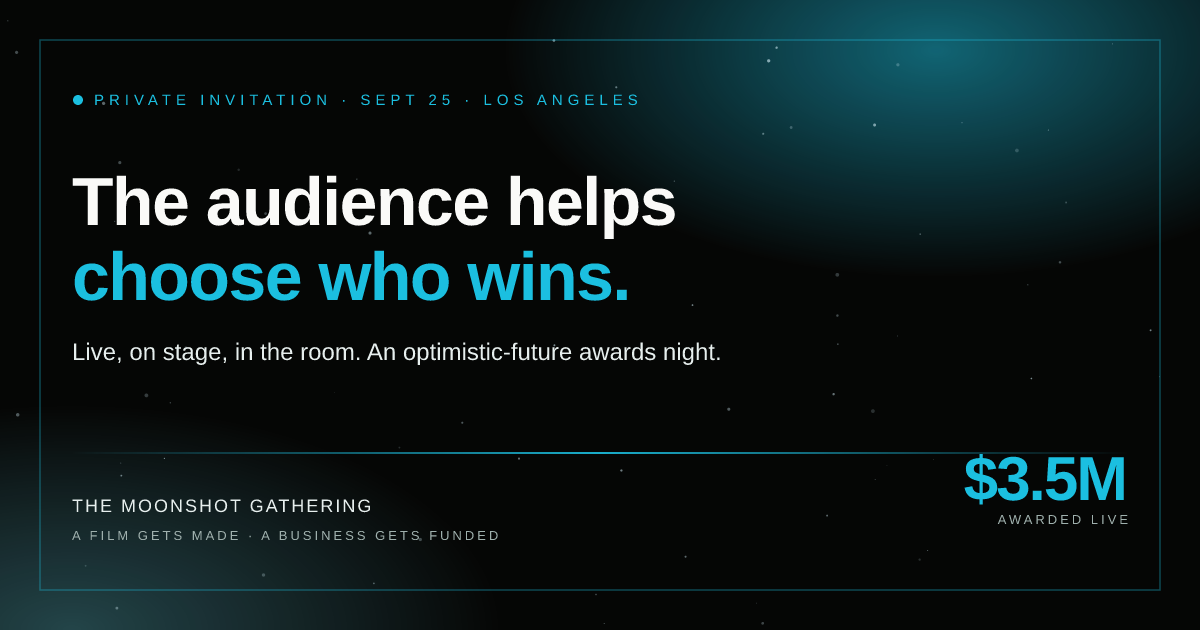
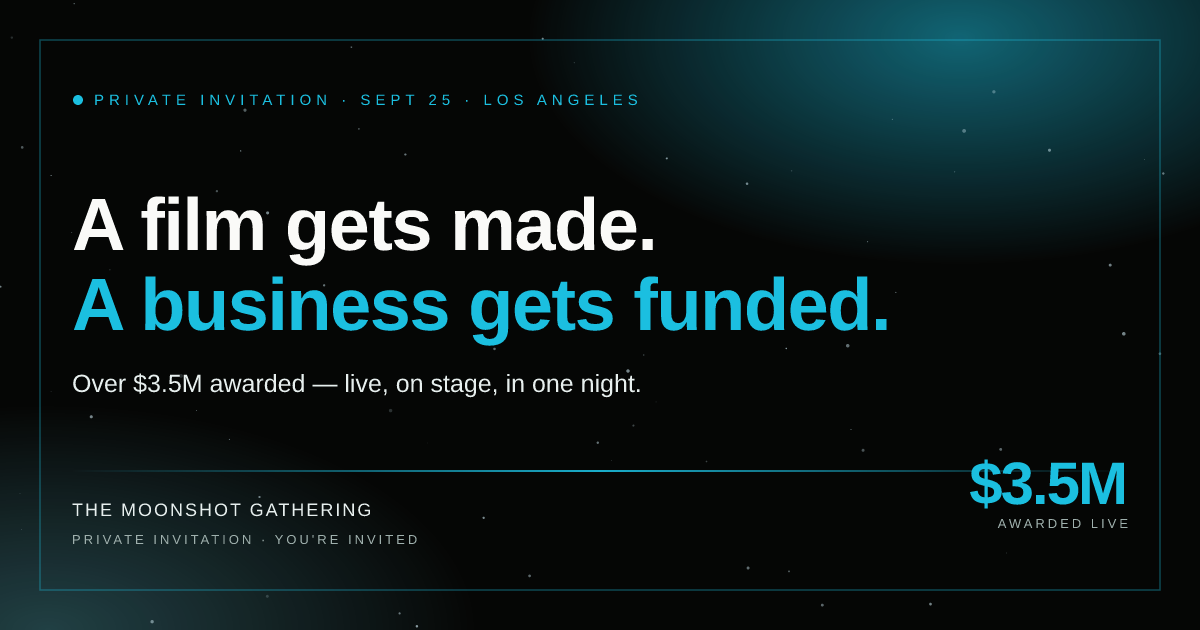
Refresh OG share thumbnail to match invite (#19)
Regenerate og-image.png to the current hero framing ('A film gets made. A
business gets funded. Over $3.5M awarded — live, in one night.'), replacing
the stale 'audience helps choose who wins' card. Bump og/twitter image URL to
?v=2 so iMessage/social re-fetch instead of serving the cached old thumbnail.
Update meta descriptions to match.

Changed region(s): [[0.0617, 0.2714, 0.74, 0.6333], [0.1233, 0.6937, 0.9558, 0.8444], [0.0617, 0.7841, 0.4008, 0.8746]]

diff --git a/invite/index.html b/invite/index.html
@@ -4,17 +4,17 @@
 <meta charset="UTF-8">
 <meta name="viewport" content="width=device-width, initial-scale=1.0">
 <title>The Moonshot Gathering — Sept 25 · Los Angeles</title>
-<meta name="description" content="The only awards night where the audience helps choose who wins — live, on stage, in the room. September 25, Los Angeles. Over $3.5M awarded, including a film that gets made.">
+<meta name="description" content="A film gets made. A business gets funded. Over $3.5M awarded — live, on stage, in one night. September 25, Los Angeles. A private invitation to the Moonshot Gathering.">
 <meta property="og:title" content="The Moonshot Gathering — You're Invited">
-<meta property="og:description" content="The only awards night where the audience helps choose who wins — live, on stage. Sept 25 · LA. Over $3.5M awarded, including a film that gets made.">
+<meta property="og:description" content="A film gets made. A business gets funded. Over $3.5M awarded — live, on stage, in one night. Sept 25 · Los Angeles.">
 <meta property="og:type" content="website">
-<meta property="og:image" content="https://media.moonshots.com/invite/assets/og-image.png">
+<meta property="og:image" content="https://media.moonshots.com/invite/assets/og-image.png?v=2">
 <meta property="og:image:width" content="1200">
 <meta property="og:image:height" content="630">
 <meta name="twitter:card" content="summary_large_image">
 <meta name="twitter:title" content="The Moonshot Gathering — You're Invited">
-<meta name="twitter:description" content="The audience helps choose who wins — live, on stage. Sept 25 · LA. Over $3.5M awarded.">
-<meta name="twitter:image" content="https://media.moonshots.com/invite/assets/og-image.png">
+<meta name="twitter:description" content="A film gets made. A business gets funded. Over $3.5M awarded — live, in one night. Sept 25 · LA.">
+<meta name="twitter:image" content="https://media.moonshots.com/invite/assets/og-image.png?v=2">
 <style>
   @import url('https://fonts.googleapis.com/css2?family=Barlow:ital,wght@0,400;0,600;0,700;0,800;0,900;1,400&family=Inter:wght@300;400;500;600&family=Space+Mono:wght@400;700&display=swap');
 